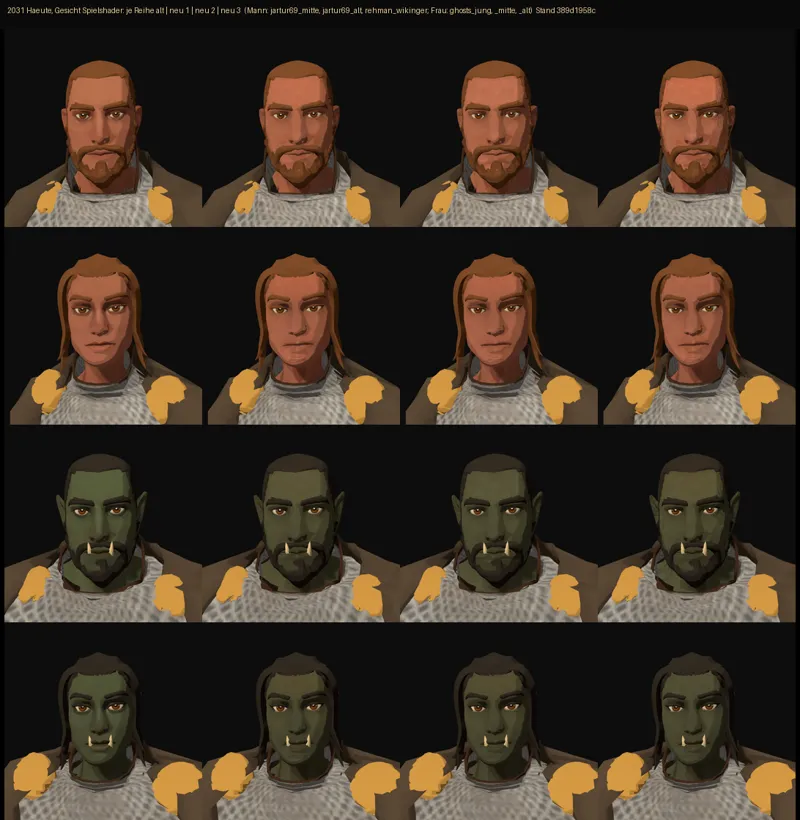
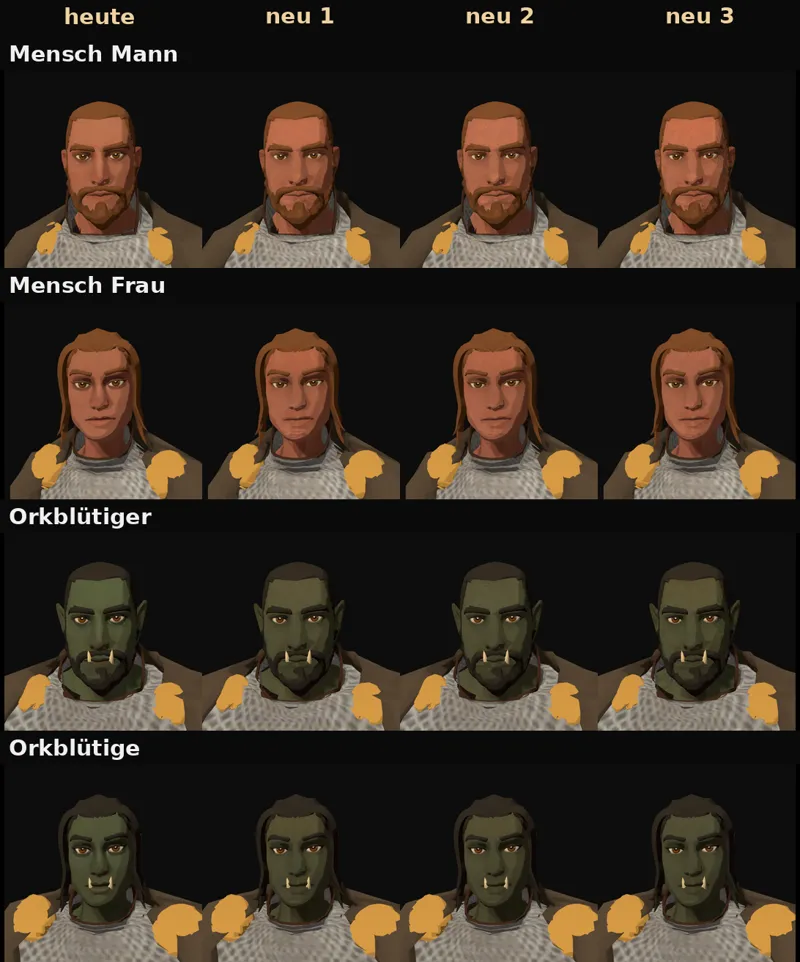
Chefsache 2031: Bild beschriftet, Schultern erklärt
Claude-Session: https://claude.ai/code/session_01Hmoj79JcDjsCJiQppNXh2J

Changed region(s): [[0.0, 0.0, 1.0, 1.0], [0.8125, 0.0, 0.9375, 0.0305]]

diff --git a/docs/chefsache/entscheiden/2031-haeute.md b/docs/chefsache/entscheiden/2031-haeute.md
@@ -14,10 +14,11 @@ Geprüft an: Zweig `claude/figur-2031-kutte-haut`, Commit 389d1958c, Prüfer ja 
 **Begründung:** Im Bild ist beim Menschen (Mann, Frau) kaum ein Unterschied zu sehen, in der Handyansicht gar keiner. Bau und Speicher lohnen sich für fast Unsichtbares nicht. Dein Wunsch nach Vielfalt (25.11., 17:07: „wir wollen unsere Helden individuell gestalten“) wird eher von Kopfteilen, Kleidung und Hautton getragen.
 
 **Sachverhalt:**
-- Bild `bilder/2031-haeute.webp`: vier Reihen Gesichter (Mensch Mann, Mensch Frau, Orkblütiger Mann, Orkblütige Frau), je Reihe links die heutige Haut, rechts drei neue. Ganzbild mit Handyansicht 540×1170 und Ganzfigur: Telegram 26.11. als Datei.
+- Bild `bilder/2031-haeute.webp`: vier Reihen Gesichter (Mensch Mann, Mensch Frau, Orkblütiger Mann, Orkblütige Frau), Spalte „heute“ und drei neue. Ganzbild mit Handyansicht 540×1170 und Ganzfigur: Telegram 26.11. als Datei.
 - Mann: „jartur69 mittleres Alter“, „jartur69 hohes Alter“, „rehman Wikinger“ (mit Tätowierung an den Schläfen, im Bild nicht zu erkennen). Frau: „ghosts jung“, „ghosts mittel“, „ghosts älter“. Lizenz CC0 (frei, auch kommerziell) auf Seite und in der Paketdatei, eingetragen in `LISTE-QUELLEN.md`.
 - Prüfung des Bauwerkzeugs: 60 Fälle, 0 falsch; Helligkeit am Gesicht höchstens 10 % unter heute, keine roten Flecken.
 - Selbst angesehen (Sokrates 10:01) und von einem frischen Leser gegengelesen (10:02): Orkblütiger mit neuer Haut sichtbar dunkler und stumpfer grün; Mensch Mann höchstens etwas röter; Mensch Frau fast gleich; Handyansicht und Ganzfigur ohne Unterschied.
+- Die orange-gelben Flächen an den Schultern sind in allen Spalten gleich, auch bei der heutigen Haut (Kleidung des Wachsoldaten in der Nahansicht, nicht Teil dieser Frage; als Fund an Figur gemeldet).
 
 **Auswertung:**
 - **A:** alle sechs einbauen, wählbar in der Erschaffung oder zufällig für Nichtspielerfiguren; Kosten schätzt der Arbeitsplaner (Grenze 50 $ ohne Frage an dich).
